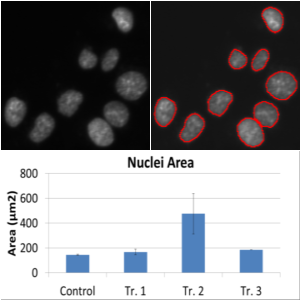
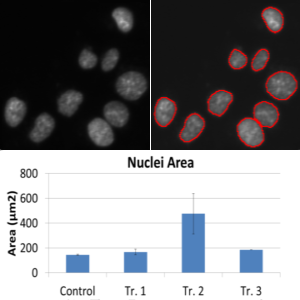
Corrections et service de phéno

Changed region(s): [[0.0, 0.51, 1.0, 1.0], [0.0, 0.0, 0.48, 0.48], [0.51, 0.0, 1.0, 0.03]]

diff --git a/portal/services/microscopie.md b/portal/services/microscopie.md
@@ -2,7 +2,7 @@
 layout: default
 ---
 
-<h2>Services de phénotypage</h2>
+<h2>Services de phénotypage et d'instrumentation</h2>
 
 
 <table >
@@ -12,13 +12,12 @@ layout: default
 <td >
 <h4><b>Notre service</b></h4>
 <p>
-Notre service de phénotypage vous offre la possibilité de faire vos criblages phénotypiques vous permettant d'identifier rapidement 
-vos biomarqueurs et / ou drogues dans vos modèle cellulaire d'interets. Le service est structuré dèune façon qui permet de s'ajuster 
-à vos besoins de recherches. Par exemple, le service peut prendre a charge toutes les étapes dèun cribblage ou seulement developper 
-des "pipelines" d'analyse pour vos images. Ceci vous permettra d'extraire un maximum d'information de vos images ce qui vous permttera 
-de bien caractériser le phenotype associé à vos biomarqueurs et / ou drogues d'intérêts. Grace à notre expertise en developpement d'essai,
-notre équipe sera en mesure de vous developpez des essaies sur mesure qui permettront de teste votre phenotype d'intérêt de maniere rapide, 
-efficace et a faible cout.
+Notre service de phénotypage et d'instrumentation vous offre la possibilité de faire vos criblages phénotypiques vous permettant d'identifier rapidement
+vos biomarqueurs ou composés dans vos modèles cellulaires d'intérêts. Le service est structuré de façon à permettre de s'ajuster
+à vos besoins de recherches. Par exemple, le service peut prendre en charge toutes les étapes d'un criblage ou seulement développer
+des l'analyse de vos images. Ceci vous permettra d'extraire un maximum d'information de vos images afin
+de bien caractériser les phénotypes d'intérêts. Grace à notre expertise en développement d'essai, notre équipe sera en mesure de développer des essaies sur mesure qui permettront de tester votre phénotype d'intérêt de maniere rapide,
+efficace et à faible coût.
 </p>
 </td>
 </tr>
@@ -32,30 +31,8 @@ efficace et a faible cout.
 <td >
 <h4><b>Microscopie à haut débit</b></h4>
 <p>
-    <ul>
-      <li>Apoptose</li>
-      <li>Viabilité cellulaire</li>
-      <li>Compte cellulaire</li>
-      <li>Niveau d'expression, localisation de protéines fluorescentes</li>
-      <li>Morphologie cellulaire</li>
-      <li>Détection de cholestérol</li>
-      <li>Immunofluorescence:
-        <ul>
-            <li>Cycle cellulaire (BrdU)</li>
-            <li>Marqueur de prolifération (Ki67)</li>
-            <li>Marqueur de mitose (phospho-histone H3)</li>
-            <li>Réponse aux dommages à l'ADN (gamma-H2AX, phospho-ATM)</li>
-            <li>Cytosquelette (Actine)</li>
-            <li>Microtubules (Tubuline)</li>
-            <li>Marqueurs épithélial et mésenchymal (E-Cadherine, Vimentine)</li>
-            <li>Marqueur d'activation de fibroblastes (SMA)</li>
-            <li>Autres marquages possibles avec mise au point</li>
-        </ul>
-      </li>
-    </ul>
+De multiples essais furent mis au point au cours des dernières années afin de détecter et quantifier un large éventail de phénotypes. L'utilisation de plaques multi-puits vous permettra d'évaluer ces phénotypes rapidement et dans une multitude de conditions. Nos techniques permettent d'évaluer différents phéntoypes tel que l'apoptose, le cycle cellulaire, la morphologie en utilisant différentes colorations (annexin-V, BrdU, actine, tubuline, etc.). plusieurs de ces essais peuvent être multiplexés afin d'augmenter l'efficacitée.
 </p>
-
-<i>Note: Plusieurs marqueurs peuvent être multiplexés.</i>
 </td>
 <td width='300px' ><img src='/images/bd_pathway_855.jpg' width='300px' /></td>
 </tr>
@@ -67,24 +44,9 @@ efficace et a faible cout.
 <tr style="background-color:#FFFFFF">
 <td width='200px' ><img src='/images/zeiss_axioimager_z1.jpg' width='200px' /></td>
 <td >
-<h4><b>Microscopie générale</b></h4>
+<h4><b>Microscopie</b></h4>
 <p>
-    <ul>
-        <li>Épifluorescence</li>
-        <li>Confocal</li>
-        <li>Champ claire (contraste de phase et contraste interférentiel (DIC))</li>
-        <li>Grossissement de 40X à 1000X</li>
-        <li>Divers fluorophores:
-            <ul>
-                <li>DAPI, hoechst</li>
-                <li>CFP</li>
-                <li>GFP, FITC, AlexaFluor 488</li>
-                <li>YFP</li>
-                <li>Cy3, AlexaFluor 546, Texas Red</li>
-                <li>Cy5, AlexaFluor 647</li>
-            </ul>
-        </li>
-    </ul>
+Notre service vous offre la possibilité de prendre vos images via divers techniques de microscopie. Vos échantillons peuvent être imager via une grande variété de technique : épifluorescence, confocal, champ claire, contraste de phase et contraste interférentiel (DIC) et ce en plusieurs dimensions : multi-canaux, multi-plans (Z-stack), plusieurs temps (time lapse) et multi-positions. Le tout peut aussi souvent être jumelé à un rendement haut débit.
 </p>
 </td>
 </tr>
@@ -97,15 +59,7 @@ efficace et a faible cout.
 <td >
 <h4><b>Analyse d'images</b></h4>
 <p>
-    <ul>
-        <li>Détection et décompte d'objets (noyaux, cellules, foyers, etc.)</li>
-        <li>Quantification de l'intensité de fluorescence et colocalisation</li>
-        <li>Analyse de changement de morphologie</li>
-        <li>Classification d'objets </li>
-        <li>Détection de colonnies (bactéries, levures) en pétri</li>
-        <li>Analyse d'images de divers types d'échantillons (plantes, environnements, western blots, etc)</li>
-        <li>Écriture de scriptes (plugins) ImageJ / Fiji pour automatisation de transformation ou d'analyse d'images</li>
-    </ul>
+Le traitement et l’analyse de vos images vous permet d’extraire rapidement et de façon quantitative le maximum d’information de vos images. Les images provenant de divers échantillons peuvent être analysées : cellules eucaryotes, bactéries, boîte de Petri, plantes, environnement, buvardages, etc. Le développement de l’analyse se fait selon vos besoin afin d’extraire les caractéristiques qui vous intéressent (information sur l’intensité ou la localisation d’un fluorophore, le décompte, la classification et la morphologie d’objet, etc.). Notre service vous offre aussi la possibilité d’écrire des modules ImageJ/Fiji afin d’automatiser des opérations répétitives sur des images vous demandant beaucoup de temps.
 </p>
 </td>
 <td width='300px' >
@@ -120,21 +74,19 @@ efficace et a faible cout.
 <tr style="background-color:#FFFFFF">
 <td >
 <p>
-<h4><b>En bref, voici le détail de notre expertise:</b> (Vas y mon Dan!!!!)</h4>
+<h4><b>En bref, voici le détail de notre expertise:</b></h4>
 <ul>
-<li>Analyse de vos besoins et estimation de coût.</li>
-<li>Analyse de données de séquençage à haut débit (DNA-seq, RNA-seq, Chip-seq, etc.).</li>
-<li>Analyse bio-statistiques diverses.</li>
-<li>Analyse de d'images de microscopie provenant d'un criblage afin de caractériser divers phénotypes.</li>
+<li>Analyse de vos besoins et estimation de coûts.</li>
+<li>Criblage phénotypique à haut débit.</li>
+<li>Microscopie en épifluorescence, confocal, champ claire, contraste de phase et contraste interférentiel.</li>
+<li>Analyse d'images et écriture de modules ImageJ/Fiji.</li>
 </ul>
 </p>
 <p>
-Pour le détails de nos réalisations, svp consulter notre <a href='/portefolio/portefolio.html'>portefolio</a>. Pour plus de détails sur notre expertise ou pour nous
-soumettre un projet, contactez <a href='mailto:jean-francois.lucier@usherbrooke.ca'>jean-francois[at]usherbrooke.ca
+Pour plus de détails sur notre expertise ou pour nous
+soumettre un projet, contactez <a href='mailto:daniel.garneau@usherbrooke.ca'>Daniel.Garneau[at]usherbrooke.ca
 </p>
 </td>
 </tr>
 </tbody>
 </table>
-
-

diff --git a/portal/services/bioinformatique.md b/portal/services/bioinformatique.md
@@ -3,16 +3,16 @@ layout: default
 ---
 
 
-<h2>Services bio-informatique</h2>
+<h2>Service bio-informatique</h2>
 <table >
 <tbody>
 <tr style="background-color:#FFFFFF">
 <td width='300px' ><img src='/images/bioinfo/bd_pathway_855_crop.png' width='300px' /></td>
 <td >
 <h4><b>L'explosion de données biologiques</b></h4>
-<p>L'avancement technologique durant la derniere decennie a contribuer a la croissance des données liée à la biologie. La creation d'outil tel que
-les séquenceurs de nouvelle génération et microscope à haut débit ont grandement contribuer à cette hausse. De nos jours, la plupart des laboratoires et entreprises 
-privées, petites ou grosses, ont recours à ces technologies pour tester une multitudes d'hypothèses liées à leurs programmes de recherches. Par 
+<p>L'avancement technologique durant la derniere décennie a contribué à la croissance des données liées à la biologie. La création d'outils tel que
+les séquenceurs de nouvelle génération et microscope à haut débit ont grandement contribué à cette hausse. De nos jours, la plupart des laboratoires et entreprises
+privées, petites ou grosses, ont recours à ces technologies pour tester une multitudes d'hypothèses liées à leurs programmes de recherche. Par
 conséquent, le besoin de personnes qualifiées et spécialisées dans le traitement de ces données est donc devenu une nécessité pour l'avancement de vos recherches. </p>
 </td>
 </tr>
@@ -24,14 +24,14 @@ conséquent, le besoin de personnes qualifiées et spécialisées dans le traite
 <tr style="background-color:#FFFFFF">
 <td >
 <h4><b>L'Équipe</b></h4>
-<p>Avec notre équipe de bio-informaticiens experts, vous serez en mesure d'obtenir les analyses bio-informatiques requises par votre 
-laboratoire ou entreprise de façon rapide, efficace et professionnelle. Notre equipe est composée de programmeurs et bioinformaticiens seniors ayant 
-une formation en biologie et en informatique. Notre expertise nous permet de bien comprendre vos hypothèses et nous permettent d'élaborer des solutions 
-repondant à tous vos besoins bio-informatiques. Le service bio-informatique du département de Biologie travail étroitement avec l'équipe du Centre de Calcul Scientifiques 
-de l'Université de Sherbrooke (<a href='https://www.usherbrooke.ca/sti/internes/ccs/'>CCS</a>), sous la gouverne de 
-<a href='http://www.calculquebec.ca/fr/'>Calcul Québec</a> et <a href='http://www.computecanada.ca/?lang=fr'>Calcul Canada</a>. L'équipe de programmeurs et 
-d'administrateurs systèmes de ce centre sont responsable du bon fonctionnement du super-ordinateur Mammouth (> 39 000 processeurs). Nous avons 
-donc un un accès privilégiés à cette super ressource informatique qui nous permet d'analyser vos resultats de manière rapide et efficace.
+<p>Avec notre équipe de bio-informaticiens experts, vous serez en mesure d'obtenir les analyses bio-informatiques requises par votre
+laboratoire ou entreprise de façon rapide, efficace et professionnelle. Notre équipe est composé de programmeurs et bioinformaticiens seniors ayant
+une formation en biologie et en informatique. Notre expertise nous permet de bien comprendre vos hypothèses et d'élaborer des solutions
+répondant à tous vos besoins bio-informatiques. Le service bio-informatique du département de Biologie travail étroitement avec l'équipe du Centre de Calcul Scientifiques
+de l'Université de Sherbrooke (<a href='https://www.usherbrooke.ca/sti/internes/ccs/'>CCS</a>), sous la gouverne de
+<a href='http://www.calculquebec.ca/fr/'>Calcul Québec</a> et <a href='http://www.computecanada.ca/?lang=fr'>Calcul Canada</a>. L'équipe de programmeurs et
+d'administrateurs systèmes de ce centre sont responsable du bon fonctionnement du super-ordinateur Mammouth (> 39 000 processeurs). Nous avons
+donc un un accès privilégié à cette super ressource informatique qui nous permet d'analyser vos resultats de manière rapide et efficace.
 </p>
 </td>
 <td width='200px' >
@@ -53,17 +53,17 @@ donc un un accès privilégiés à cette super ressource informatique qui nous p
 </td>
 <td >
 <h4><b>Une solution bio-informatique pour vos besoins</b></h4>
-<p>Quels que soient vos besoins en bio-informatique, notre service bio-informatique est structuré d'une façon qui permet  
-de solutionner efficacement vos problèmes d'analyse, et ce, à un coût très concurrentiel. Nous travaillons 
-de pair avec nos clients afin de bien comprendre leur domaine de recherche et la problématique lié à l'analyse de leur donnéees. Ceci permet d'identifier 
-les éléments qui devront être corrigés ou implantés pour assurer une analyse juste des données qui repondent aux besoins de votre laboratoire ou entreprise.</p>
+<p>Quels que soient vos besoins en bio-informatique, notre service est structuré de façon à permettre  
+de solutionner efficacement vos problèmes d'analyse, et ce, à un coût très concurrentiel. Nous travaillons
+de pair avec nos clients afin de bien comprendre leur domaine de recherche et la problématique liée à l'analyse de leur données. Ceci permet d'identifier
+les éléments qui devront être corrigés ou implantés pour assurer une analyse juste des données qui répond aux besoins de votre laboratoire ou entreprise.</p>
 <p>
 <h4><b>En bref, voici le détail de notre expertise:</b></h4>
 <ul>
-<li>Analyse de vos besoins et estimation de coût.</li>
+<li>Analyse de vos besoins et estimation de coûts.</li>
 <li>Analyse de données de séquençage à haut débit (DNA-seq, RNA-seq, Chip-seq, etc.).</li>
 <li>Analyse bio-statistiques diverses.</li>
-<li>Analyse de d'images de microscopie provenant d'un criblage afin de caractériser divers phénotypes.</li>
+<li>Analyse d'images de microscopie provenant d'un criblage afin de caractériser divers phénotypes.</li>
 </ul>
 </p>
 <p>
@@ -74,5 +74,3 @@ soumettre un projet, contactez <a href='mailto:jean-francois.lucier@usherbrooke.
 </tr>
 </tbody>
 </table>
-
-

diff --git a/portal/services/services.md b/portal/services/services.md
@@ -13,10 +13,10 @@ layout: default
             <td >
                 <h2>Bio-informatique</h2><br/>
                 <p>
-                Avec notre équipe de bio-informaticiens experts, vous serez en mesure d'optimiser les analyses bio-informatiques requises par votre 
-                laboratoire ou entreprise. Vous pouvez d'ailleur voir quelques-unes de nos réalisations en consultant notre <a href='/portefolio/bioinformatique.html'>portefolio</a>. 
-                L'expertise bio-informatique acquises au fils des dernieres annees, nous permet d'établir une solution de façon rapide, efficace et 
-                professionnelle à tous vos besoins bio-informatiques. Pour de plus de détail, consulter ce <a href='/services/bioinformatique.html'>lien</a>.
+                Avec notre équipe de bio-informaticiens experts, vous serez en mesure d'optimiser les analyses bio-informatiques requises par votre
+                laboratoire ou entreprise. Vous pouvez d'ailleur voir quelques-unes de nos réalisations en consultant notre <a href='/portefolio/bioinformatique.html'>portefolio</a>.
+                L'expertise bio-informatique acquise au fils des dernières années, nous permet d'établir une solution de façon rapide, efficace et
+                professionnelle à tous vos besoins bio-informatiques. Pour plus de détails, consultez ce <a href='/services/bioinformatique.html'>lien</a>.
                 </p>
             </td>
         </tr>
@@ -31,10 +31,8 @@ layout: default
             <td >
                 <h2>Microscopie</h2><br/>
                 <p>
-                La platforme de phenotypage est une nouvelle platformes disponible a l'ensemble des laboraoires et entreprises desirant caracteriser de 
-                facon phenotypique leur biomarqueur d'interet. Au cours des dernieres annees, notre equipe a developpe de multiples essaies, qui peuvent etre multiplexe, 
-                offert a 
-                faible cout a la communaute scientifique. Pour plus de details concernant ces essaies, SVP consulter ce <a href='/services/microscopie.html'>lien</a>.
+                La platforme de phénotypage est une nouvelle platforme disponible à l'ensemble des laboraoires et entreprises desirant caractériser de
+                façon phénotypique leur biomarqueur d'interet. Au cours des dernières années, notre équipe a développé de multiples essais, pouvant être multiplexés, offert à faible coût à la communauté scientifique. Pour plus de détails concernant ces essais, SVP consulter ce <a href='/services/microscopie.html'>lien</a>.
                 </p>
             </td>
         </tr>
